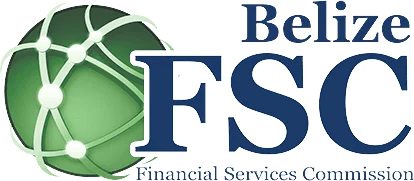
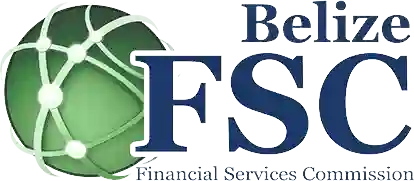
Optimización de Imágenes 2

diff --git a/src/input.css b/src/input.css
@@ -204,7 +204,6 @@ html{
         max-width: 330px;
         position: relative;
         padding-top: 1rem;
-        flex-grow: 0.8;
         animation: none;
     }
 

diff --git a/src/output.css b/src/output.css
@@ -2827,7 +2827,6 @@ html{
     max-width: 330px;
     position: relative;
     padding-top: 1rem;
-    flex-grow: 0.8;
     animation: none;
   }
 
